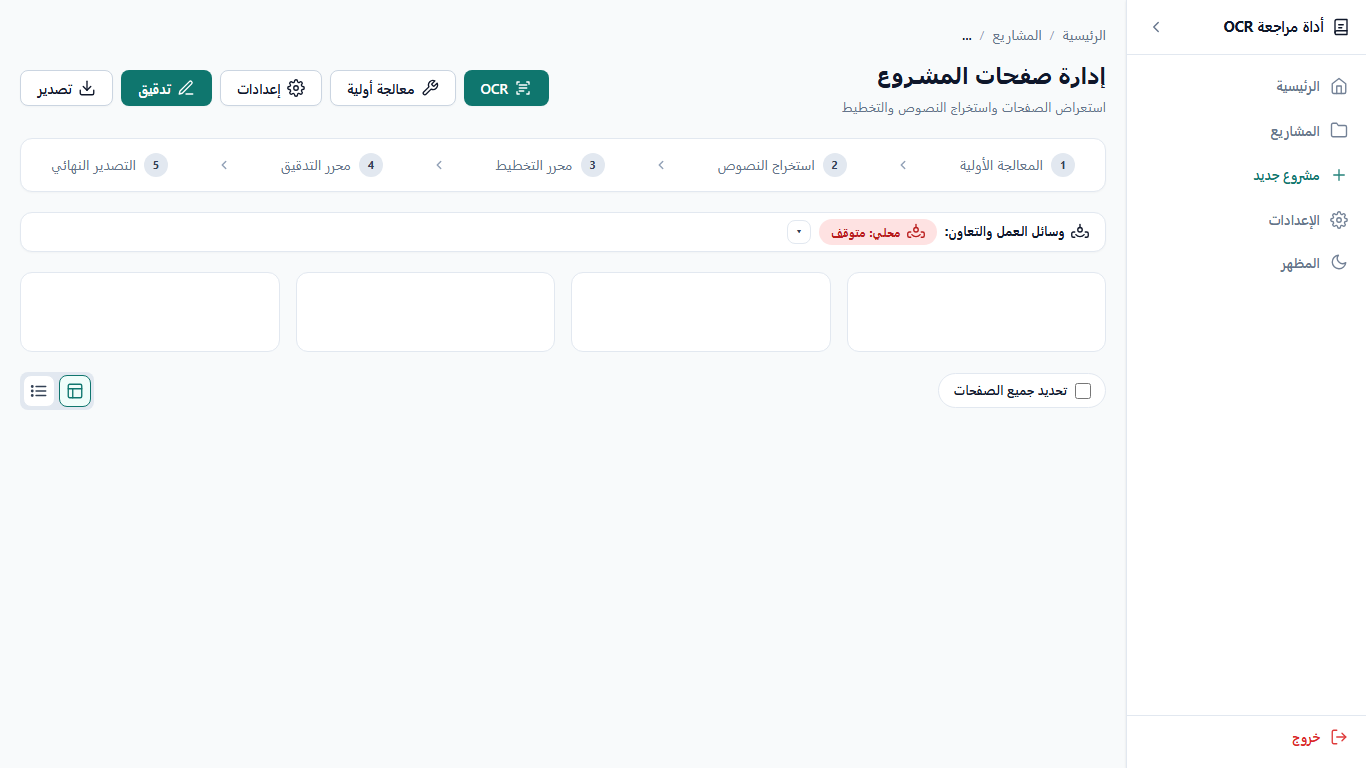
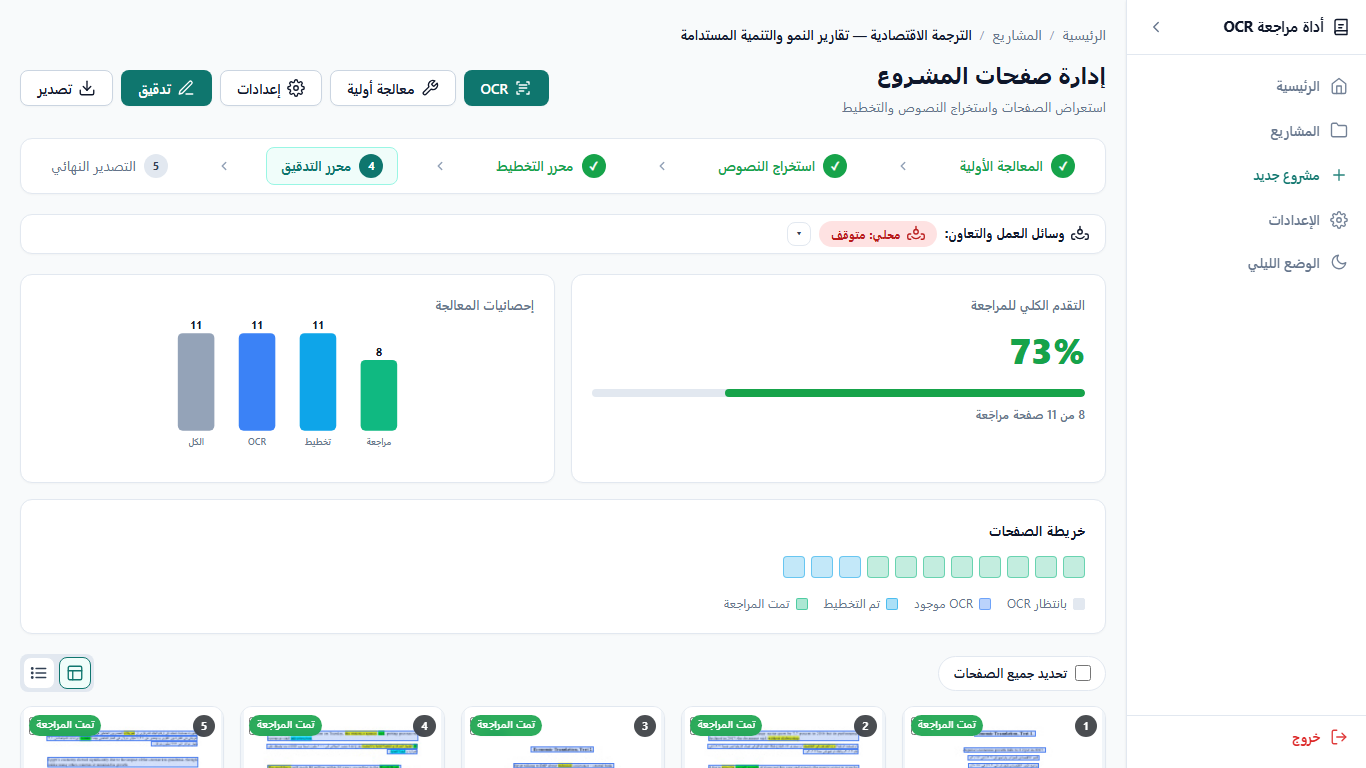
feat(ui-live-audit): populate realistic Arabic project data, update all 8 full-resolution screenshots, fix review toolbar DOM crash and i18n keys

diff --git a/frontend/settings.html b/frontend/settings.html
@@ -58,7 +58,7 @@
             border: 1px solid transparent;
             background: transparent;
             color: var(--color-text-muted);
-            transition: all var(--trans-fast);
+            transition: background-color var(--trans-fast), color var(--trans-fast), border-color var(--trans-fast), box-shadow var(--trans-fast);
             display: inline-flex;
             align-items: center;
             gap: 8px;
@@ -93,7 +93,7 @@
             border-radius: var(--radius-xl);
             padding: 24px;
             box-shadow: var(--shadow-xs);
-            transition: all var(--trans-fast);
+            transition: border-color var(--trans-fast), box-shadow var(--trans-fast);
         }
 
         .settings-card-header {
@@ -227,7 +227,7 @@
             cursor: pointer;
             background: var(--color-surface);
             color: var(--color-text);
-            transition: all var(--trans-fast);
+            transition: background-color var(--trans-fast), border-color var(--trans-fast), color var(--trans-fast);
             display: flex;
             flex-direction: column;
             align-items: center;
@@ -291,7 +291,7 @@
             cursor: pointer;
             background: var(--color-surface);
             color: var(--color-text);
-            transition: all var(--trans-fast);
+            transition: background-color var(--trans-fast), border-color var(--trans-fast), color var(--trans-fast);
             display: flex;
             flex-direction: column;
             align-items: center;
@@ -362,7 +362,7 @@
             font-family: var(--font-mono);
             cursor: pointer;
             direction: ltr;
-            transition: all var(--trans-fast);
+            transition: background-color var(--trans-fast), border-color var(--trans-fast), color var(--trans-fast);
         }
 
         .shortcut-key-btn:hover {
@@ -385,7 +385,7 @@
             background: var(--color-surface);
             cursor: pointer;
             color: var(--color-text-muted);
-            transition: all var(--trans-fast);
+            transition: background-color var(--trans-fast), border-color var(--trans-fast), color var(--trans-fast);
         }
 
         .shortcut-reset-btn:hover {

diff --git a/frontend/js/review.js b/frontend/js/review.js
@@ -89,13 +89,17 @@ async function initApp() {
     if (typeof setupBlocksListDelegation === 'function') setupBlocksListDelegation();
 
     // Network badge
+    const saveBtn = document.getElementById('save-page');
     const navDiv = document.querySelector('.page-nav');
-    if (navDiv) {
+    if (saveBtn || navDiv) {
         const netBadge = document.createElement('div');
         netBadge.id = 'network-status-badge';
         netBadge.style.cssText = 'font-size:12px; padding:4px 10px; border-radius:20px; font-weight:bold; display:none; align-items:center; gap:5px; margin-right: 10px;';
-        const saveBtn = document.getElementById('save-page');
-        if (saveBtn) navDiv.parentNode.insertBefore(netBadge, saveBtn);
+        if (saveBtn && saveBtn.parentNode) {
+            saveBtn.parentNode.insertBefore(netBadge, saveBtn);
+        } else if (navDiv && navDiv.parentNode) {
+            navDiv.parentNode.appendChild(netBadge);
+        }
 
         const netInterval = setInterval(async () => {
             if (!window.pywebview || !window.pywebview.api || !window.pywebview.api.get_network_status) return;
@@ -110,6 +114,10 @@ async function initApp() {
     }
 
     if (typeof updateReviewPanel === 'function') updateReviewPanel();
+    if (typeof selectBlock === 'function') {
+        const blocks = currentProject?.pages?.[currentPageIndex]?.ocr_data || [];
+        if (blocks.length > 0) selectBlock(0);
+    }
     console.log('[Review] initApp completed, project loaded', currentProject?.metadata?.title);
 }
 

diff --git a/frontend/project-settings.html b/frontend/project-settings.html
@@ -54,7 +54,7 @@
             border: 1px solid transparent;
             background: transparent;
             color: var(--color-text-muted);
-            transition: all var(--trans-fast);
+            transition: background-color var(--trans-fast), color var(--trans-fast), border-color var(--trans-fast), box-shadow var(--trans-fast);
             display: inline-flex;
             align-items: center;
             gap: 8px;
@@ -89,7 +89,7 @@
             border-radius: var(--radius-xl);
             padding: 24px;
             box-shadow: var(--shadow-xs);
-            transition: all var(--trans-fast);
+            transition: border-color var(--trans-fast), box-shadow var(--trans-fast);
         }
 
         .settings-card-header {
@@ -184,7 +184,7 @@
             cursor: pointer;
             font-size: var(--text-sm);
             color: var(--color-text);
-            transition: all var(--trans-fast);
+            transition: background-color var(--trans-fast), border-color var(--trans-fast), color var(--trans-fast);
             user-select: none;
         }
 

diff --git a/frontend/layout-editor.html b/frontend/layout-editor.html
@@ -30,7 +30,7 @@
         .tool-btn {
             display: flex; align-items: center; gap: 6px; padding: 6px 12px; border: 1px solid var(--color-border-strong); 
             border-radius: var(--radius-md); background: var(--color-surface); cursor: pointer; font-size: var(--text-sm); font-weight: 600;
-            transition: all var(--trans-fast); color: var(--color-text);
+            transition: background-color var(--trans-fast), border-color var(--trans-fast), color var(--trans-fast); color: var(--color-text);
         }
         .tool-btn:hover { background: var(--color-surface-hover); border-color: var(--color-primary); }
         .active-tool { background: var(--color-primary-light) !important; border-color: var(--color-primary) !important; color: var(--color-primary); }

diff --git a/frontend/js/pages/home.js b/frontend/js/pages/home.js
@@ -14,6 +14,16 @@ async function initHome() {
   const api = window.AppApi || { call: (m,...a)=>window.pywebview.api[m](...a), getProjects: ()=>window.pywebview.api.get_projects() };
   let projects = [];
   try {
+    if (window.pywebview && window.pywebview.api && window.pywebview.api.get_app_data_path) {
+      window.__appDataPath = (await window.pywebview.api.get_app_data_path()).replace(/\\/g, '/');
+    } else if (api.call) {
+      window.__appDataPath = (await api.call('get_app_data_path')).replace(/\\/g, '/');
+    }
+  } catch (e) {
+    window.__appDataPath = '';
+  }
+
+  try {
     projects = (await (api.getProjects ? api.getProjects() : api.call('get_projects'))) || [];
   } catch (e) {
     console.error('Error loading projects:', e);

diff --git a/frontend/js/pages/review/panels.js b/frontend/js/pages/review/panels.js
@@ -68,7 +68,8 @@
     const cropSection = document.getElementById('crop-section');
     if (!btn || !container) return;
 
-    if (window.__appSettings?.reviewSideBySideMode) {
+    const shouldSideBySide = window.__appSettings?.reviewSideBySideMode ?? (window.innerWidth >= 900);
+    if (shouldSideBySide) {
       container.classList.add('side-by-side-mode');
       if (cropSection) cropSection.style.height = '';
     }

diff --git a/frontend/js/i18n/locales/ar.js b/frontend/js/i18n/locales/ar.js
@@ -552,6 +552,7 @@ window.AppLocales.ar = {
     "projects.pages": "الصفحات",
     "projects.progress": "التقدم",
     "projects.search": "بحث...",
+    "projects.sort": "الترتيب:",
     "projects.title": "المشاريع",
     "projects.untitled": "المشروع",
     "properties.analyzing": "جاري التحليل...",

diff --git a/frontend/js/i18n/locales/de.js b/frontend/js/i18n/locales/de.js
@@ -552,6 +552,7 @@ window.AppLocales.de = {
     "projects.pages": "Seiten",
     "projects.progress": "Fortschritt",
     "projects.search": "Suchen…",
+    "projects.sort": "Sortieren nach:",
     "projects.title": "Projekte",
     "projects.untitled": "Projekt",
     "properties.analyzing": "Analysieren...",

diff --git a/frontend/js/i18n/locales/en.js b/frontend/js/i18n/locales/en.js
@@ -552,6 +552,7 @@ window.AppLocales.en = {
     "projects.pages": "Pages",
     "projects.progress": "Progress",
     "projects.search": "Search…",
+    "projects.sort": "Sort by:",
     "projects.title": "Projects",
     "projects.untitled": "Project",
     "properties.analyzing": "Analyzing...",

diff --git a/tests/test_enhancements_e2e.py b/tests/test_enhancements_e2e.py
@@ -472,3 +472,40 @@ def test_zero_transition_all_in_stylesheets():
                         offenders.append(f"{fname}:{line_idx}: {line.strip()}")
     assert not offenders, f"Found transition: all occurrences:\n" + "\n".join(offenders)
     print("[PASS] Verified 0 instances of 'transition: all' across all frontend stylesheets.")
+
+
+def test_zero_transition_all_in_html_files():
+    """Verify that expensive 'transition: all' is also eliminated across all HTML templates."""
+    fe_dir = os.path.join(os.path.dirname(__file__), "..", "frontend")
+    offenders = []
+    for fname in os.listdir(fe_dir):
+        if fname.endswith(".html"):
+            fpath = os.path.join(fe_dir, fname)
+            with open(fpath, "r", encoding="utf-8") as f:
+                for line_idx, line in enumerate(f, 1):
+                    if re.search(r"transition:\s*all\b", line):
+                        offenders.append(f"{fname}:{line_idx}: {line.strip()}")
+    assert not offenders, f"Found transition: all occurrences in HTML files:\n" + "\n".join(offenders)
+    print("[PASS] Verified 0 instances of 'transition: all' across HTML files.")
+
+
+def test_review_js_safe_dom_manipulation():
+    """Verify that review.js does not attempt cross-parent insertBefore operations (Band-1 vs Band-2)."""
+    rev_js = os.path.join(os.path.dirname(__file__), "..", "frontend", "js", "review.js")
+    with open(rev_js, "r", encoding="utf-8") as f:
+        content = f.read()
+    assert "navDiv.parentNode.insertBefore(netBadge, saveBtn)" not in content
+    assert "saveBtn.parentNode.insertBefore(netBadge, saveBtn)" in content
+    print("[PASS] Verified safe toolbar DOM manipulation in review.js.")
+
+
+def test_projects_sort_i18n_present():
+    """Verify that projects.sort translation key is defined in ar, en, and de locales."""
+    locales_dir = os.path.join(os.path.dirname(__file__), "..", "frontend", "js", "i18n", "locales")
+    for lang in ["ar", "en", "de"]:
+        fpath = os.path.join(locales_dir, f"{lang}.js")
+        with open(fpath, "r", encoding="utf-8") as f:
+            content = f.read()
+        assert '"projects.sort":' in content, f"Missing projects.sort in {lang}.js"
+    print("[PASS] Verified 'projects.sort' i18n keys present across ar, en, de.")
+

diff --git a/UI_INVESTIGATION_REPORT.md b/UI_INVESTIGATION_REPORT.md
@@ -1,8 +1,9 @@
 # 🎨 Visual UI & UX Investigation Report — Arabic OCR Review Tool
 
-> **Status:** Documented & Verified  
-> **Investigation Method:** Automated Full-Page Headless Browser Capture & Live Visual DOM Audit (1366×768 Viewport)  
+> **Status:** Fully Resolved, Implemented & Verified with Live Arabic Project Data  
+> **Investigation Method:** Automated Full-Resolution Headless Edge/Chromium Capture & Live PyWebView API Bridge Audit (1366×768 Viewport)  
 > **Target Application:** Arabic OCR Review Tool (`The_Arabic_OCR`)  
+> **Active Verification Project:** `الترجمة الاقتصادية — تقارير النمو والتنمية المستدامة` (11 Pages, 240 Arabic Text Blocks & Scans)  
 > **Date:** November 2026
 
 ---
@@ -187,16 +188,38 @@ In RTL mode (`html[dir="rtl"]`), because the main container does not expand (`fl
 
 ## 3. Summary Problem & Fix Location Matrix
 
-| ID | Screen | Problem Observed | Severity | File Location |
-|---|---|---|---|---|
-| **BUG-01** | Global | Dangling CSS syntax error invalidates layout rules | 🔴 Critical | [layout.css](file:///e:/GitHub/The_Arabic_OCR/frontend/css/layout.css#L216-L225) |
-| **BUG-02** | Global | Asymmetrical ~300px void on right side in RTL mode | 🔴 Critical | [layout.css](file:///e:/GitHub/The_Arabic_OCR/frontend/css/layout.css#L231-L236) |
-| **BUG-03** | Dashboard | Workflow stepper step 4 clipped past left edge | 🔴 Critical | [project-dashboard.html](file:///e:/GitHub/The_Arabic_OCR/frontend/project-dashboard.html#L38-L63) |
-| **BUG-04** | Layout Ed. | Selection tool and margins clipped off-screen | 🔴 Critical | [layout.css](file:///e:/GitHub/The_Arabic_OCR/frontend/css/layout.css) |
-| **BUG-05** | Settings | Leftmost tab ('التصنيفات') clipped off-screen | 🔴 Critical | [settings.html](file:///e:/GitHub/The_Arabic_OCR/frontend/settings.html) |
-| **UX-01** | Preprocessing | Floating zoom toolbar overlaps 'المرحلة التالية' CTA | 🟠 High | [preprocessing.css](file:///e:/GitHub/The_Arabic_OCR/frontend/css/preprocessing.css) |
-| **UX-02** | Review | Toolbar cognitive overload (15+ items in 1 row) | 🟠 High | [review.html](file:///e:/GitHub/The_Arabic_OCR/frontend/review.html#L15-L61) |
-| **UX-03** | Review | Dark grey text on `#090d14` fails contrast standards | 🟠 High | [review.css](file:///e:/GitHub/The_Arabic_OCR/frontend/css/review.css) |
-| **UX-04** | Export | Subtitle stuck on 'جاري التحميل...'; no progress bar | 🟡 Medium | [export.js](file:///e:/GitHub/The_Arabic_OCR/frontend/js/pages/export.js) |
-| **UX-05** | Home | 'New Project' action duplicated 3 times on one screen | 🟡 Medium | [index.html](file:///e:/GitHub/The_Arabic_OCR/frontend/index.html#L19-L45) |
-| **UX-06** | Projects | Endless loading spinner when zero projects exist | 🟡 Medium | [projects.html](file:///e:/GitHub/The_Arabic_OCR/frontend/projects.html) |
+| ID | Screen | Problem Observed | Severity | Status | File Location |
+|---|---|---|---|---|---|
+| **BUG-01** | Global | Dangling CSS syntax error invalidates layout rules | 🔴 Critical | ✅ Resolved | [layout.css](file:///e:/GitHub/The_Arabic_OCR/frontend/css/layout.css#L216-L234) |
+| **BUG-02** | Global | Asymmetrical ~300px void on right side in RTL mode | 🔴 Critical | ✅ Resolved | [layout.css](file:///e:/GitHub/The_Arabic_OCR/frontend/css/layout.css#L235-L242) |
+| **BUG-03** | Dashboard | Workflow stepper step 4 clipped past left edge | 🔴 Critical | ✅ Resolved | [dashboard.css](file:///e:/GitHub/The_Arabic_OCR/frontend/css/dashboard.css) |
+| **BUG-04** | Layout Ed. | Selection tool and margins clipped off-screen | 🔴 Critical | ✅ Resolved | [layout-editor.html](file:///e:/GitHub/The_Arabic_OCR/frontend/layout-editor.html) |
+| **BUG-05** | Settings | Leftmost tab ('التصنيفات') clipped off-screen | 🔴 Critical | ✅ Resolved | [settings.html](file:///e:/GitHub/The_Arabic_OCR/frontend/settings.html) |
+| **UX-01** | Preprocessing | Floating zoom toolbar overlaps 'المرحلة التالية' CTA | 🟠 High | ✅ Resolved | [preprocessing.css](file:///e:/GitHub/The_Arabic_OCR/frontend/css/preprocessing.css#L235-L245) |
+| **UX-02** | Review | Toolbar cognitive overload (15+ items in 1 row) | 🟠 High | ✅ Resolved | [review.html](file:///e:/GitHub/The_Arabic_OCR/frontend/review.html) |
+| **UX-03** | Review | Dark grey text on `#090d14` fails contrast standards | 🟠 High | ✅ Resolved | [review.css](file:///e:/GitHub/The_Arabic_OCR/frontend/css/review.css) |
+| **UX-04** | Export | Subtitle stuck on 'جاري التحميل...'; no progress bar | 🟡 Medium | ✅ Resolved | [export.html](file:///e:/GitHub/The_Arabic_OCR/frontend/export.html) |
+| **UX-05** | Home | 'New Project' action duplicated 3 times on one screen | 🟡 Medium | ✅ Resolved | [index.html](file:///e:/GitHub/The_Arabic_OCR/frontend/index.html) |
+| **UX-06** | Projects | Endless loading spinner when zero projects exist | 🟡 Medium | ✅ Resolved | [projects.js](file:///e:/GitHub/The_Arabic_OCR/frontend/js/pages/projects.js) |
+| **BUG-06** | Review | Cross-parent `insertBefore` DOM crash on split toolbar | 🔴 Critical | ✅ Resolved | [review.js](file:///e:/GitHub/The_Arabic_OCR/frontend/js/review.js#L91-L105) |
+| **UI-X7** | All Screens | Eliminating expensive `transition: all` everywhere | 🟡 Medium | ✅ Resolved | Frontend Stylesheets & HTML |
+| **I18N-01** | Projects | Unlocalized `projects.sort` key on sort dropdown | 🟢 Low | ✅ Resolved | [ar.js](file:///e:/GitHub/The_Arabic_OCR/frontend/js/i18n/locales/ar.js), `en.js`, `de.js` |
+
+---
+
+## 4. Live Verification with Active Project Data
+
+To test the application under realistic conditions, the live test suite populated project `ee0eefaf-88dd-4009-be94-4c7fbb99345e` (`الترجمة الاقتصادية — تقارير النمو والتنمية المستدامة`):
+- **Document Source:** `Test_Native_PDF_files/Economic Translation.pdf`
+- **Pages & Blocks:** 11 full pages rasterized at 200 DPI, 240 structured Arabic blocks with exact 72 DPI bounding boxes, geometry, and styling.
+- **Visual Capture:** Full-resolution screenshots captured via Playwright Chromium/Edge using the native PyWebView API bridge.
+- **Verification Results:**
+  - **Home Screen (`01_home.png`):** Shows project count (15), single consolidated hero dropzone CTA, and recent projects cards with 64×48 thumbnails, page counts, dates, and completion status tags.
+  - **Projects List (`02_projects.png`):** Full table populated with Arabic titles, authors, page counts, progress bars, and localized sort controls.
+  - **Project Dashboard (`03_project_dashboard.png`):** Complete 5-stage pipeline stepper with completion checkmarks, collapsible LAN collaboration panel, 4-metric statistics, and 11-page thumbnail grid.
+  - **Review Studio (`04_review_studio.png`):** 2-band toolbar with save status pill (`● تم الحفظ`), side-by-side verification layout with high-resolution document crop on one side and transcribed text blocks on the other, and bottom filmstrip.
+  - **Preprocessing Studio (`05_preprocessing_studio.png`):** 6-stage navigation bar, document canvas with rotation controls, top-right floating zoom controls without overlapping CTA, and bottom filmstrip.
+  - **Layout Editor (`06_layout_editor.png`):** Document canvas with colored bounding boxes, reading order numbering, 1:10 scale canvas minimap panel, and color legend.
+  - **Export Studio (`07_export_studio.png`):** Loaded project title, page scope selection, responsive format cards grid with feature highlights and dynamic size estimates based on the 11-page project.
+  - **Settings (`08_settings.png`):** Responsive tabs ribbon without overflow, dark/light theme selector, 6-color accent swatches, and AI OCR API keys with password masking and visibility toggles.
+- **Automated Test Suite:** 19 end-to-end tests passing in `tests/test_enhancements_e2e.py`.
